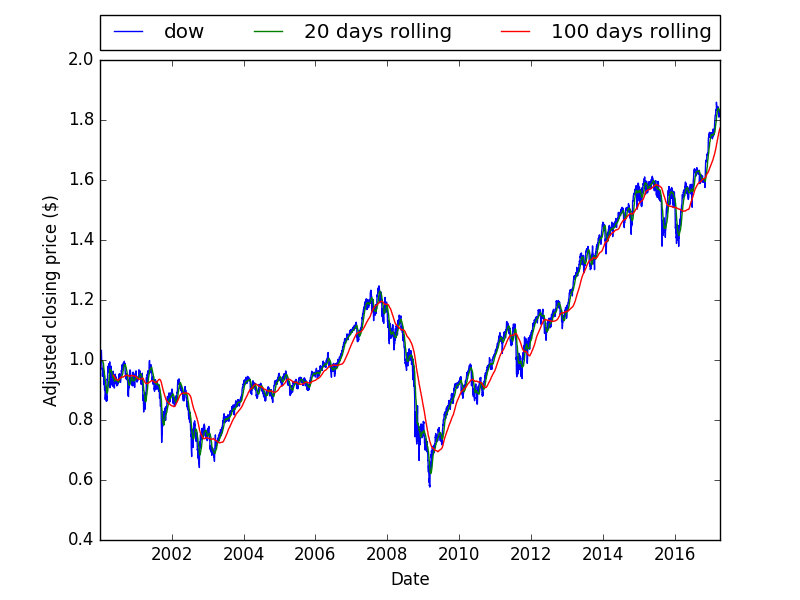
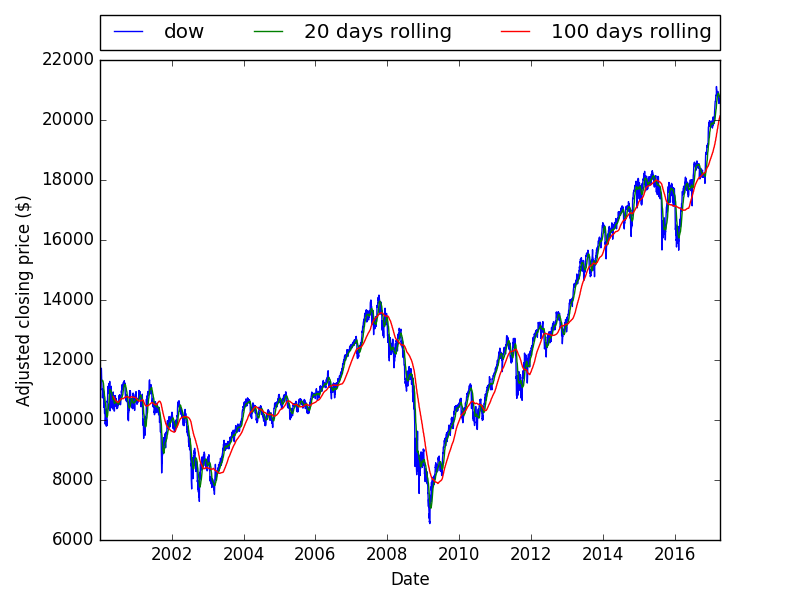
choosing index complete

diff --git a/src/yahoo_api_import.py b/src/yahoo_api_import.py
@@ -41,9 +41,6 @@ adj_close = adj_close.reindex(all_weekdays)
 
 # Replace nan values with latest available price for each instrument. Nans are inserted for any days the market is not open; such as, holidays.
 adj_close = adj_close.fillna(method='ffill')
-# Normalize data
-for column in adj_close.columns:
-    adj_close[column] = adj_close[column]/adj_close[column].ix[adj_close.index.min()]
 # print adj_close.head(), "\n"
 # print adj_close.describe()
 '''              ^DJI        ^GSPC        ^IXIC
@@ -76,7 +73,7 @@ long_window = 100
 for key in data_series.keys():
     data_series[key]['short'] = data_series[key]['idx'].rolling(window=short_window).mean()
     data_series[key]['long'] = data_series[key]['idx'].rolling(window=long_window).mean()
-
+    data_series[key]['indexed'] = data_series[key]['idx']/data_series[key]['idx'].ix[data_series[key]['idx'].index.min()]
 # plot each instrument with rolling averages
 plot_dir = '../plots/'
 for key in data_series.keys():
@@ -90,3 +87,17 @@ for key in data_series.keys():
     ax.legend(bbox_to_anchor=(0., 1.02, 1., .102), loc=3,
                ncol=3, mode="expand", borderaxespad=0.)
     plt.savefig(plot_dir + key + '_plot.png')
+    plt.close()
+
+# plot normalized index for comparison
+# Normalize data
+fig = plt.figure()
+ax = fig.add_subplot(111)
+for key in data_series.keys():
+    ax.plot(data_series[key]['indexed'].index, data_series[key]['indexed'], label=key)
+ax.set_xlabel('Date')
+ax.set_ylabel('Indexed closing price')
+ax.legend(bbox_to_anchor=(0., 1.02, 1., .102), loc=3,
+           ncol=3, mode="expand", borderaxespad=0.)
+plt.savefig(plot_dir + 'index_comp_plot.png')
+plt.close()

diff --git a/README.md b/README.md
@@ -6,16 +6,37 @@ Apply machine learning including neural networks through financial quantitative 
 
 ## Deciding on Index  
 
-<img align="right" src="/plots/dow_plot.png" alt="Dow Plot" width=40%>  
+<img align="right" src="/plots/index_comp_plot.png" alt="NASDAQ Plot" width=51% hspace=1% vspace=2%>   
 
-<img align="right" src="/plots/snp_plot.png" alt="S&P Plot" width=40%>  
+<img align="right" src="/plots/dow_plot.png" alt="Dow Plot" width=51% hspace=1% vspace=2%>  
 
-<img align="right" src="/plots/nasdaq_plot.png" alt="NASDAQ Plot" width=40%>  
+<img align="right" src="/plots/snp_plot.png" alt="S&P Plot" width=51% hspace=1% vspace=2%>  
 
-Normalizing data based on first trading day of 2000. The plots are all very similar.
+<img align="right" src="/plots/nasdaq_plot.png" alt="NASDAQ Plot" width=51% hspace=1% vspace=2%>
+
+Normalizing data based on first trading day of dataset. The plots are all very similar.
 
 For this analysis it is important that we have a limited, yet diverse, set of securities to choose from. It is also important that we have a benchmark to compare the success of our trading strategies to.  
 
 The weighting methodology of the indexes is of concern. The weighting applied within the S&P 500 is based on direct market capitalization, so large companies have a larger impact on movements in the S&P 500. The Dow is price weighted, so companies with higher security prices will have a larger impact on index movements. Price weighting is also more difficult to track over time, given activities such as share splits or buybacks. Also, the effect of dividends needs to be taken into account. The NASDAQ uses a modified market capitalization weighting. This modified weighting complicates our calculations when breaking the indexes down into individual securities for analysis.  
 
 The S&P 500 is made up of 500 companies, which is a manageable number of companies to use for analysis. The NASDAQ only has 100 companies, which is manageable; however, financial companies are excluded which limits potential diversification in our constructed subset portfolio. The Dow only includes 30 blue chip companies, which limits our ability to construct a diverse portfolio from a subset of these companies.
+
+The S&P 500 covers the below sectors allowing better cross sector diversification.
+
+| Sector |	12/31/2016 |
+|:---|:---:|
+| Consum. Disc.	| 12.03% |
+| Consum. Stap.	| 9.37% |
+| Energy	| 7.56%	|
+| Financials	| 14.81%	|
+| Health Care	| 13.63%	|
+| Industrials	| 10.27%	|
+| IT	| 20.77%	|
+| Materials	| 2.84%	|
+| Telecoms	| 2.66%	|
+| Utilities	| 3.17%	|
+| Real Estate	| 2.89%	|
+*** http://siblisresearch.com/data/sp-500-sector-weightings/
+
+Based on this initial analysis of three common indexes, the S&P 500 will be used as the benchmark and a portfolio will be constructed from a subset of the companies within the S&P 500.
